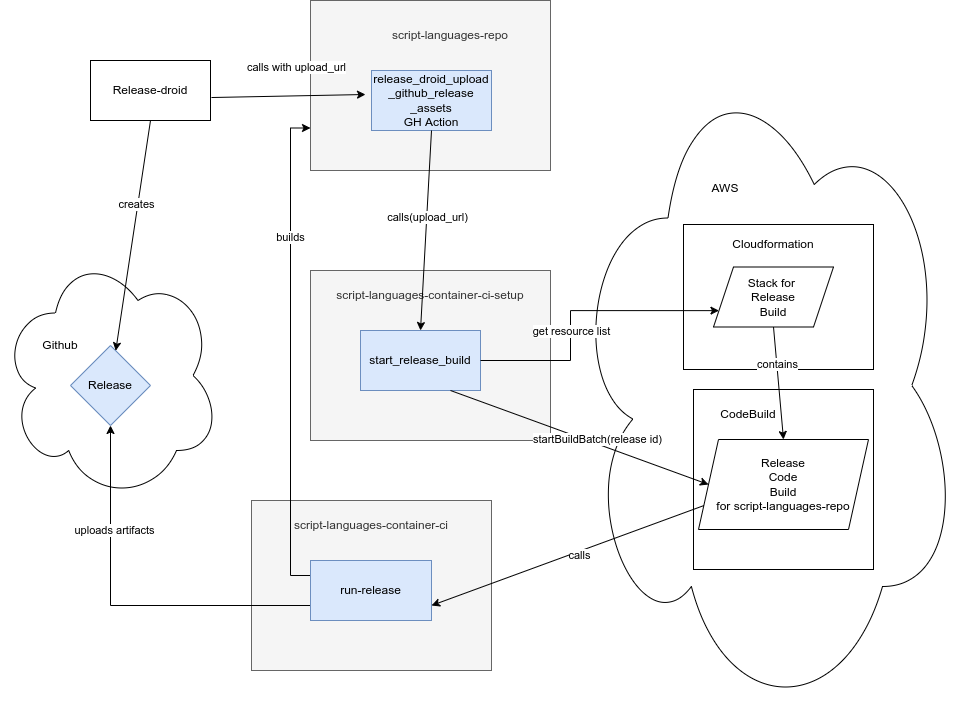
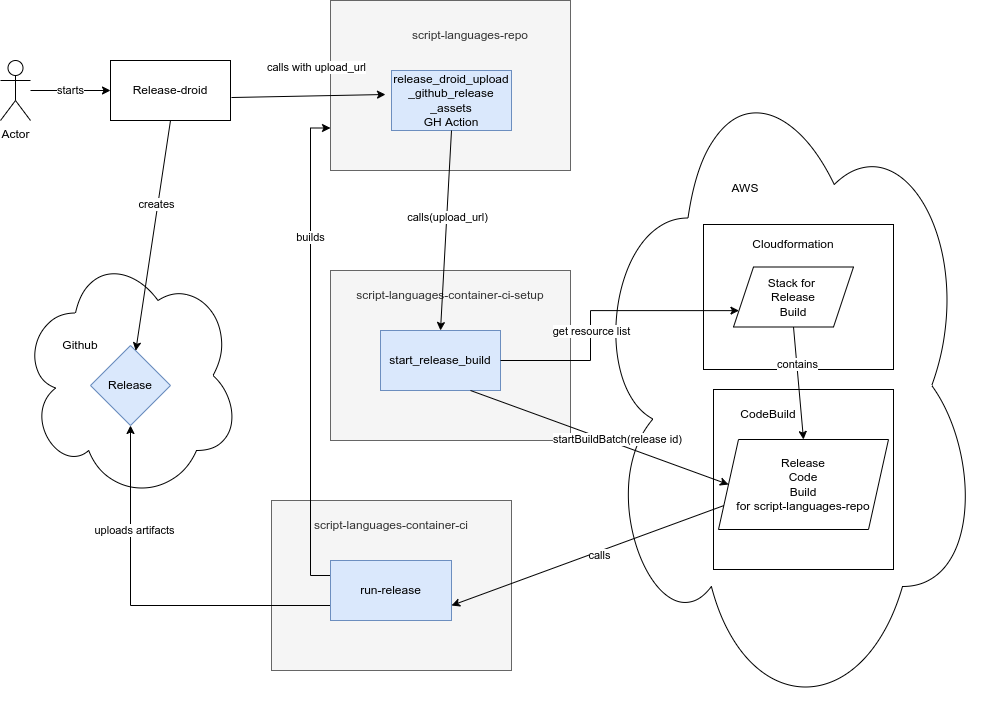
1. tiny changes in flow diagrams 2. Renamed GithubReleaseCreator => GithubDraftReleaseCreator 3. Add missing link to test-release-flow.png in user_guide.md

diff --git a/exasol_script_languages_container_ci_setup/lib/run_start_release_build.py b/exasol_script_languages_container_ci_setup/lib/run_start_release_build.py
@@ -3,7 +3,7 @@ import re
 from typing import Tuple, Dict
 
 from exasol_script_languages_container_ci_setup.lib.aws_access import AwsAccess
-from exasol_script_languages_container_ci_setup.lib.github_release_creator import GithubReleaseCreator
+from exasol_script_languages_container_ci_setup.lib.github_draft_release_creator import GithubDraftReleaseCreator
 from exasol_script_languages_container_ci_setup.lib.release_build import release_stack_name
 
 
@@ -66,7 +66,7 @@ def run_start_release_build(aws_access: AwsAccess, project: str, upload_url: str
     _execute_release_build(aws_access, project, branch, _parse_upload_url(upload_url=upload_url), False, gh_token)
 
 
-def run_start_test_release_build(aws_access: AwsAccess, gh_release_creator: GithubReleaseCreator, repo_name: str,
+def run_start_test_release_build(aws_access: AwsAccess, gh_release_creator: GithubDraftReleaseCreator, repo_name: str,
                                  project: str, branch: str, release_title: str, gh_token: str) -> None:
     logging.info(f"run_start_test_release_build for aws profile {aws_access.aws_profile_for_logging} "
                  f"for project {project} for branch: {branch} with title: {release_title}")

diff --git a/exasol_script_languages_container_ci_setup/cli/commands/start_test_release_build.py b/exasol_script_languages_container_ci_setup/cli/commands/start_test_release_build.py
@@ -8,7 +8,7 @@ from exasol_script_languages_container_ci_setup.cli.common import add_options
 from exasol_script_languages_container_ci_setup.cli.options.logging import logging_options, set_log_level
 from exasol_script_languages_container_ci_setup.lib.aws_access import AwsAccess
 from exasol_script_languages_container_ci_setup.cli.options.aws_options import aws_options
-from exasol_script_languages_container_ci_setup.lib.github_release_creator import GithubReleaseCreator
+from exasol_script_languages_container_ci_setup.lib.github_draft_release_creator import GithubDraftReleaseCreator
 from exasol_script_languages_container_ci_setup.lib.run_start_release_build import run_start_test_release_build
 
 
@@ -37,5 +37,5 @@ def start_test_release_build(
     release artifacts onto the new Github release.
     """
     set_log_level(log_level)
-    run_start_test_release_build(AwsAccess(aws_profile), GithubReleaseCreator(), repo_name,
+    run_start_test_release_build(AwsAccess(aws_profile), GithubDraftReleaseCreator(), repo_name,
                                  project, branch, release_title, os.getenv("GITHUB_TOKEN"))

diff --git a/exasol_script_languages_container_ci_setup/lib/github_draft_release_creator.py b/exasol_script_languages_container_ci_setup/lib/github_draft_release_creator.py
@@ -3,7 +3,7 @@ import os
 from github import Github
 
 
-class GithubReleaseCreator(object):
+class GithubDraftReleaseCreator(object):
     """
     Implements creation of a Github Draft Release.
     See https://docs.github.com/en/rest/releases/releases for details.

diff --git a/user_guide/user_guide.md b/user_guide/user_guide.md
@@ -72,3 +72,6 @@ For some repositories there will be one code build stack to build the release ar
 
 The overall flow for a release build is shown in the following diagram:
 ![image info](./release-flow.png)
+
+The overall flow for a test-release build is shown in the following diagram:
+![image info](./test-release-flow.png)
